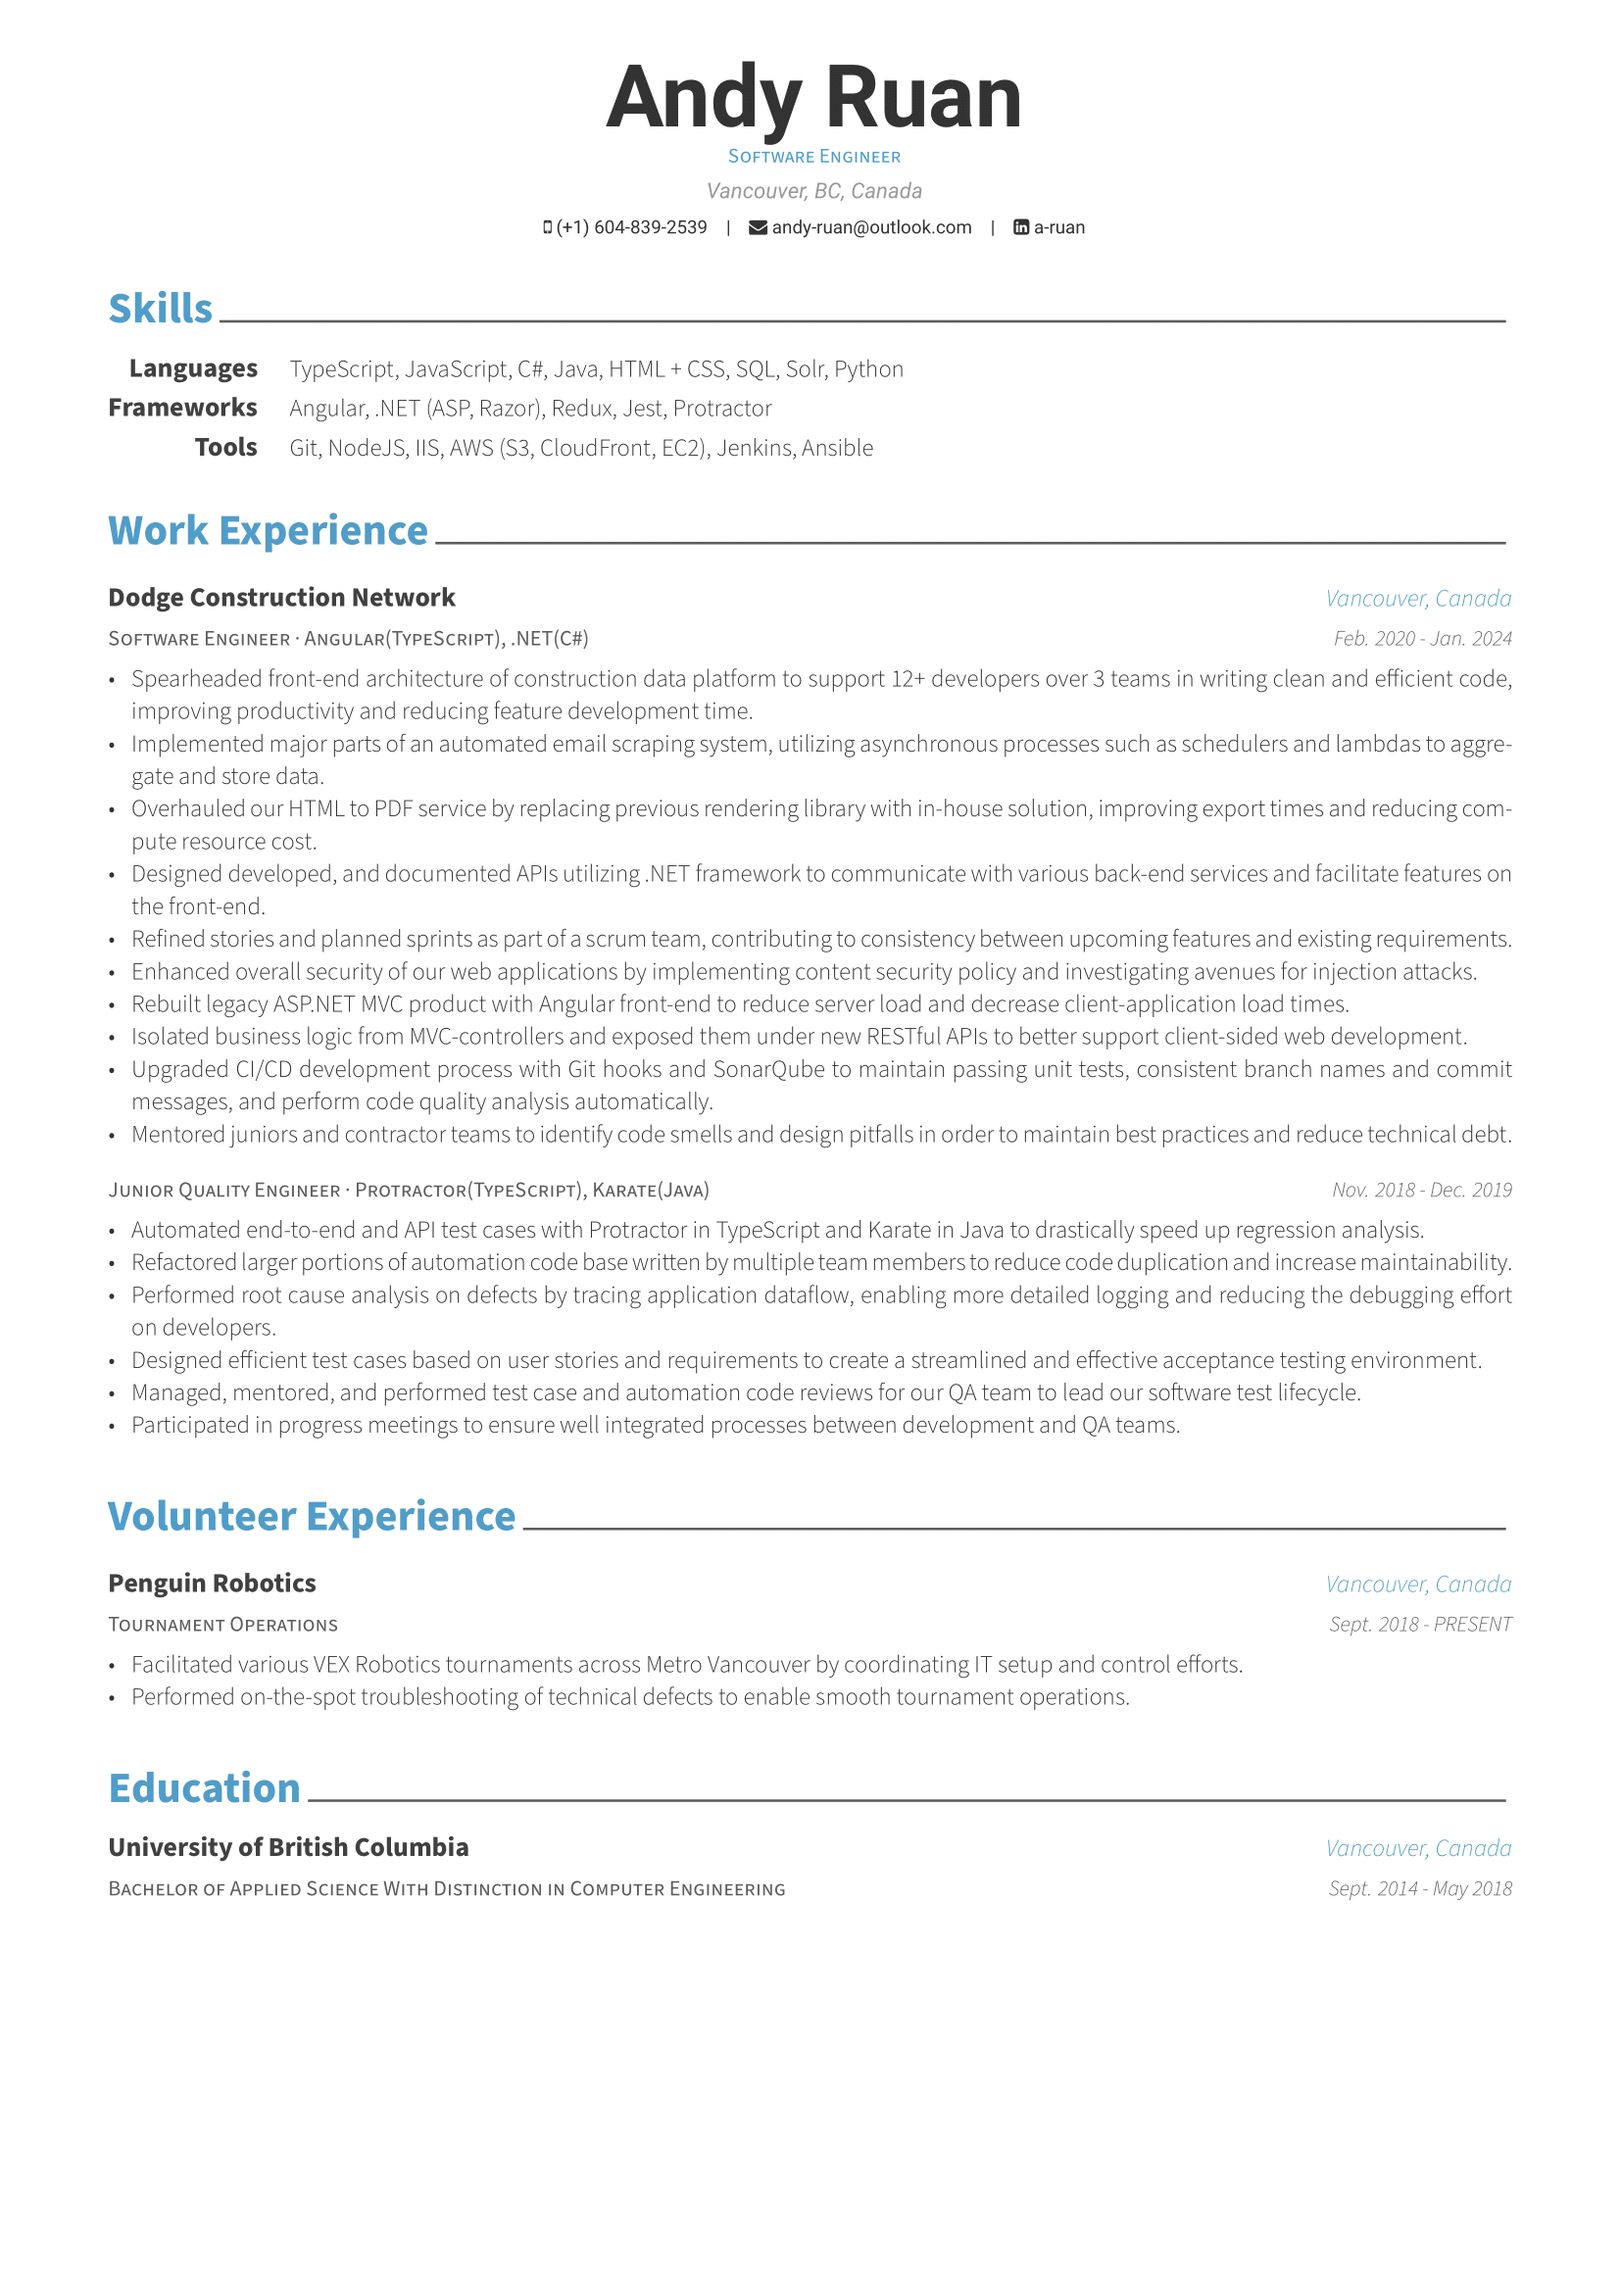
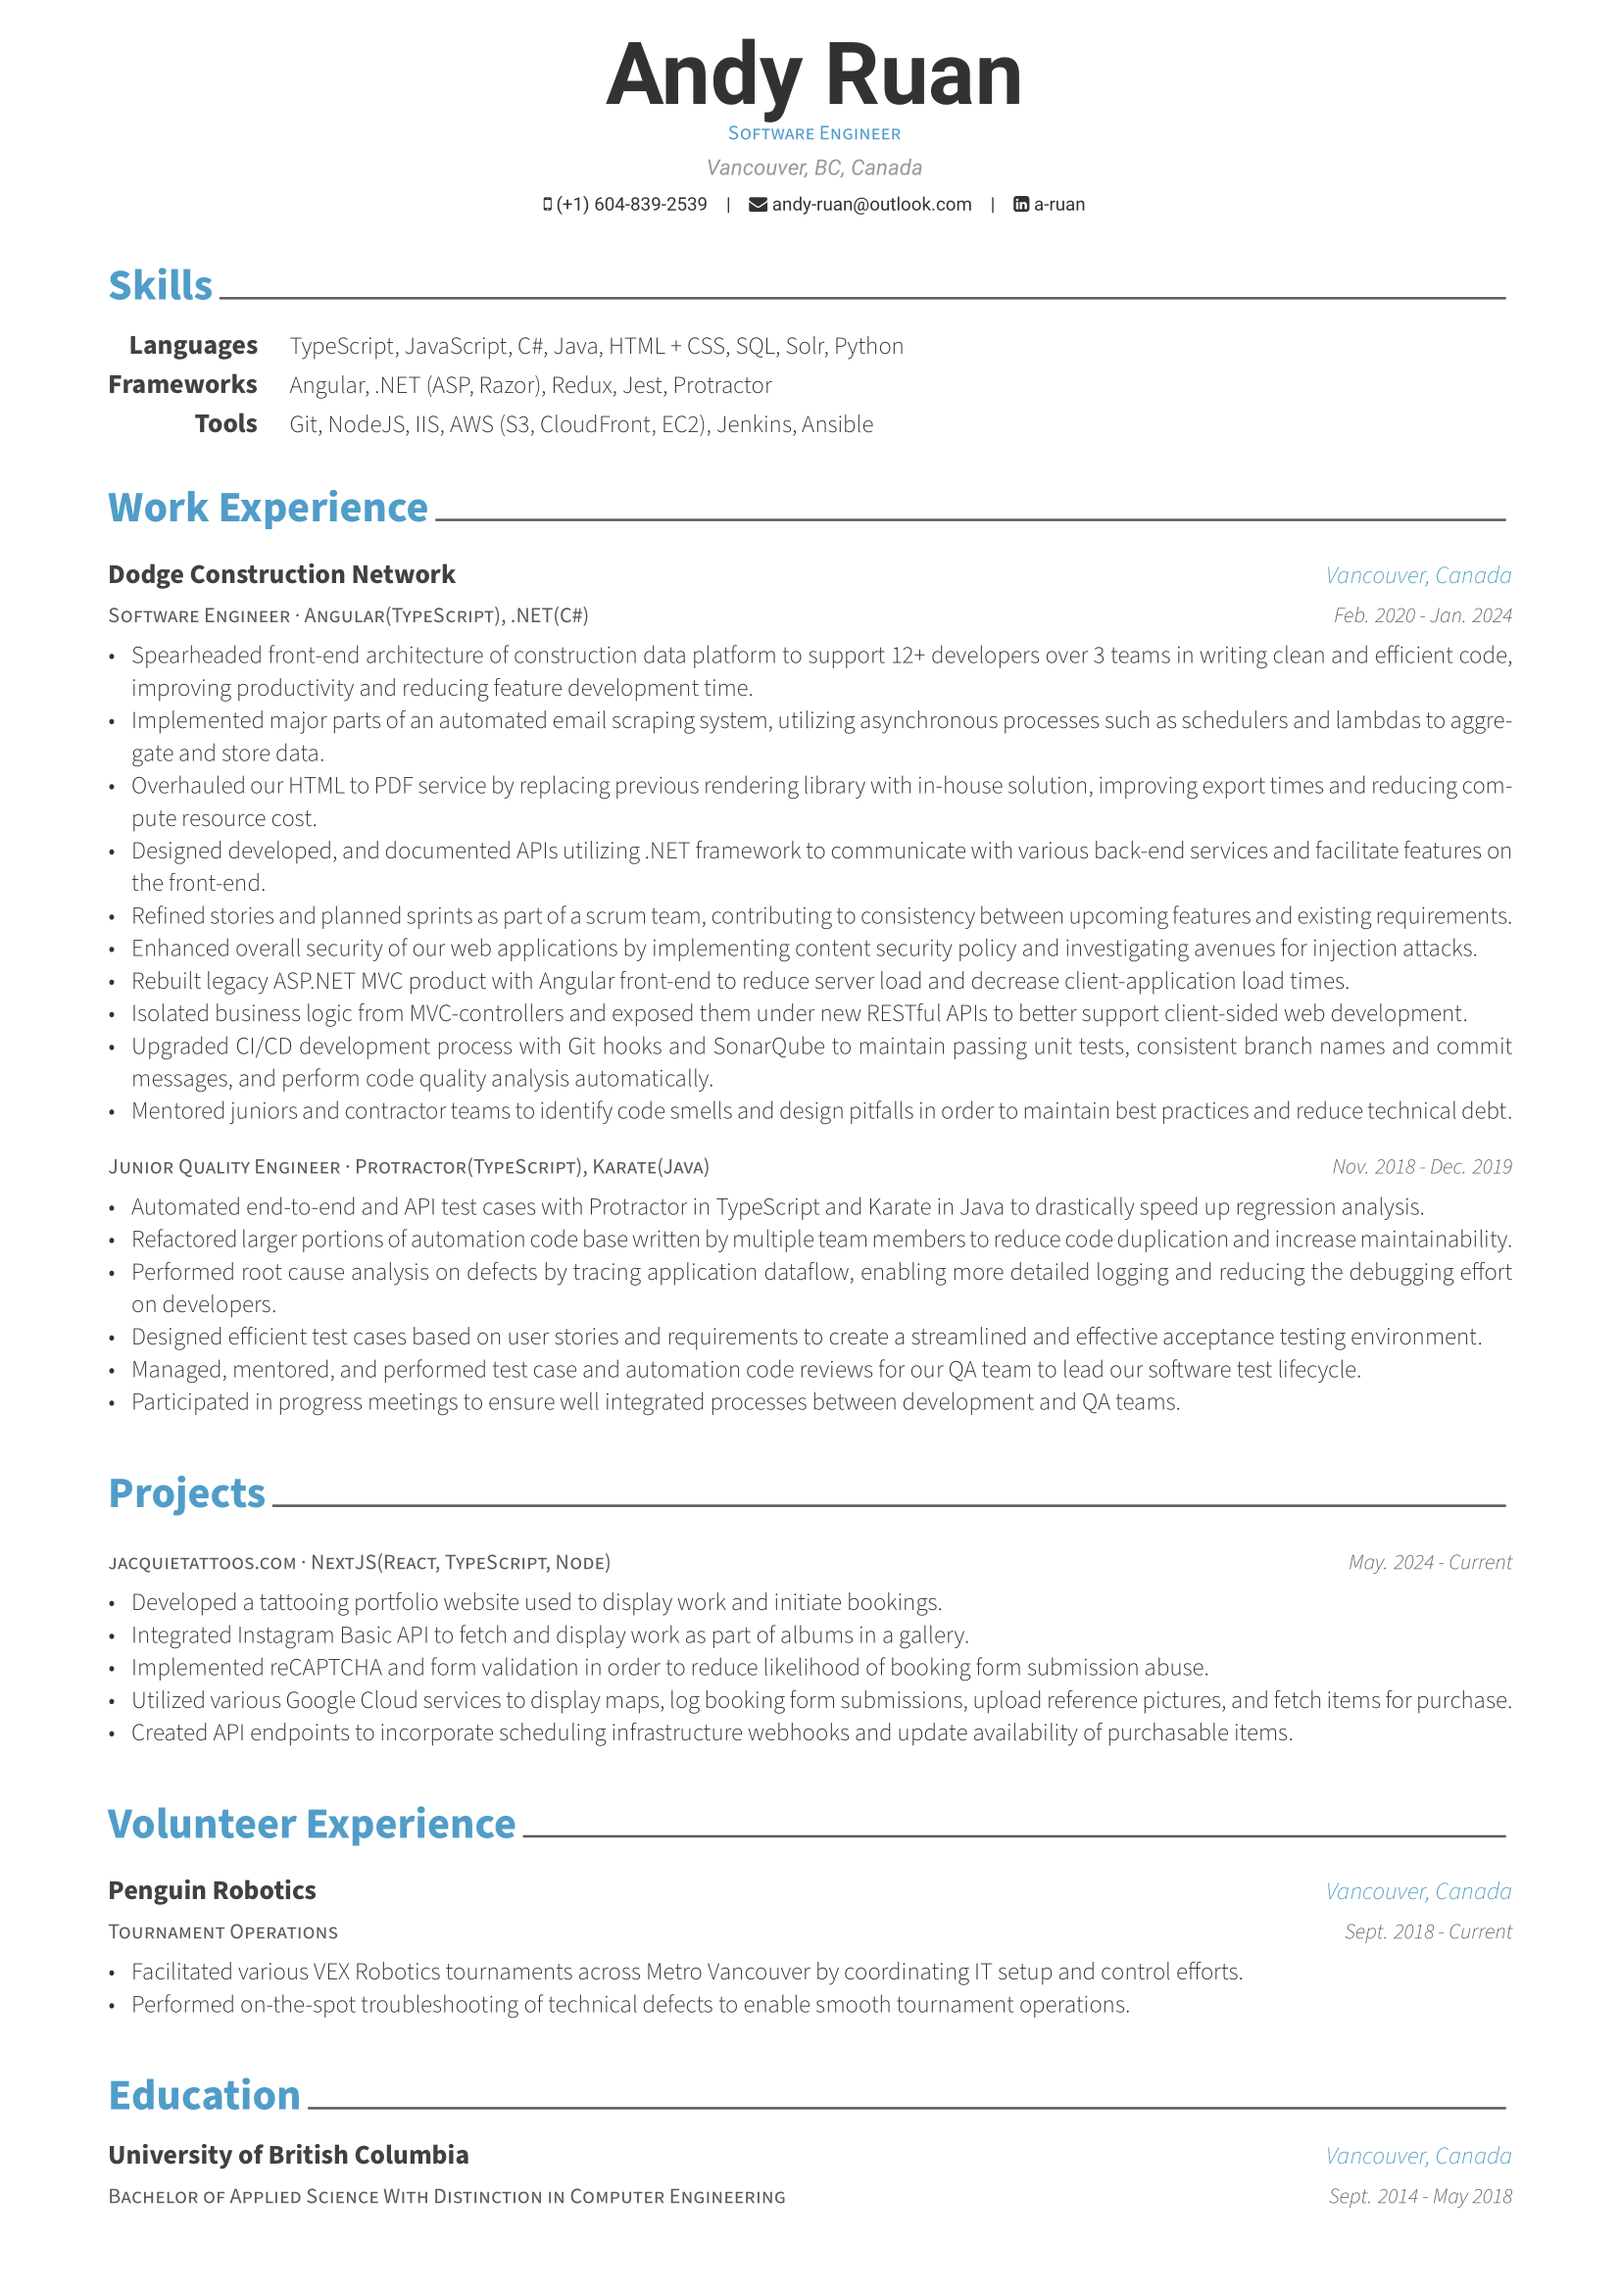
add project exp

diff --git a/resume/sections/projects.tex b/resume/sections/projects.tex
@@ -1,0 +1,28 @@
+%-------------------------------------------------------------------------------
+%	SECTION TITLE
+%-------------------------------------------------------------------------------
+\cvsection{Projects}
+
+
+%-------------------------------------------------------------------------------
+%	CONTENT
+%-------------------------------------------------------------------------------
+\begin{cventries}
+
+%---------------------------------------------------------
+\cventry
+  {jacquietattoos.com · NextJS(React, TypeScript, Node)} % Job title
+  {}
+  {}
+  {May. 2024 - Current} % Date(s)
+  {
+    \begin{cvitems} % Description(s) of tasks/responsibilities
+      \item {Developed a tattooing portfolio website used to display work and initiate bookings.}
+      \item {Integrated Instagram Basic API to fetch and display work as part of albums in a gallery.}
+      \item {Implemented reCAPTCHA and form validation in order to reduce likelihood of booking form submission abuse.}
+      \item {Utilized various Google Cloud services to display maps, log booking form submissions, upload reference pictures, and fetch items for purchase.}
+      \item {Created API endpoints to incorporate scheduling infrastructure webhooks and update availability of purchasable items.}
+    \end{cvitems}
+  }
+%---------------------------------------------------------
+\end{cventries}

diff --git a/resume/resume.tex b/resume/resume.tex
@@ -21,7 +21,7 @@
 \documentclass[12pt, a4paper]{../common/awesome-cv}
 
 % Configure page margins with geometry
-\geometry{left=1.4cm, top=.8cm, right=1.4cm, bottom=1.8cm, footskip=.5cm}
+\geometry{left=1.4cm, top=.5cm, right=1.4cm, bottom=.5cm, footskip=.5cm}
 
 % Specify the location of the included fonts
 \fontdir[../common/fonts/]
@@ -95,6 +95,7 @@
 %-------------------------------------------------------------------------------
 \input{sections/skills.tex}
 \input{sections/experience.tex}
+\input{sections/projects.tex}
 \input{sections/volunteer.tex}
 \input{sections/education.tex}
 

diff --git a/resume/sections/volunteer.tex b/resume/sections/volunteer.tex
@@ -14,7 +14,7 @@
     {Tournament Operations} % Job title
     {Penguin Robotics} % Organization
     {Vancouver, Canada} % Location
-    {Sept. 2018 - PRESENT} % Date(s)
+    {Sept. 2018 - Current} % Date(s)
     {
       \begin{cvitems} % Description(s) of tasks/responsibilities
         \item {Facilitated various VEX Robotics tournaments across Metro Vancouver by coordinating IT setup and control efforts.}
